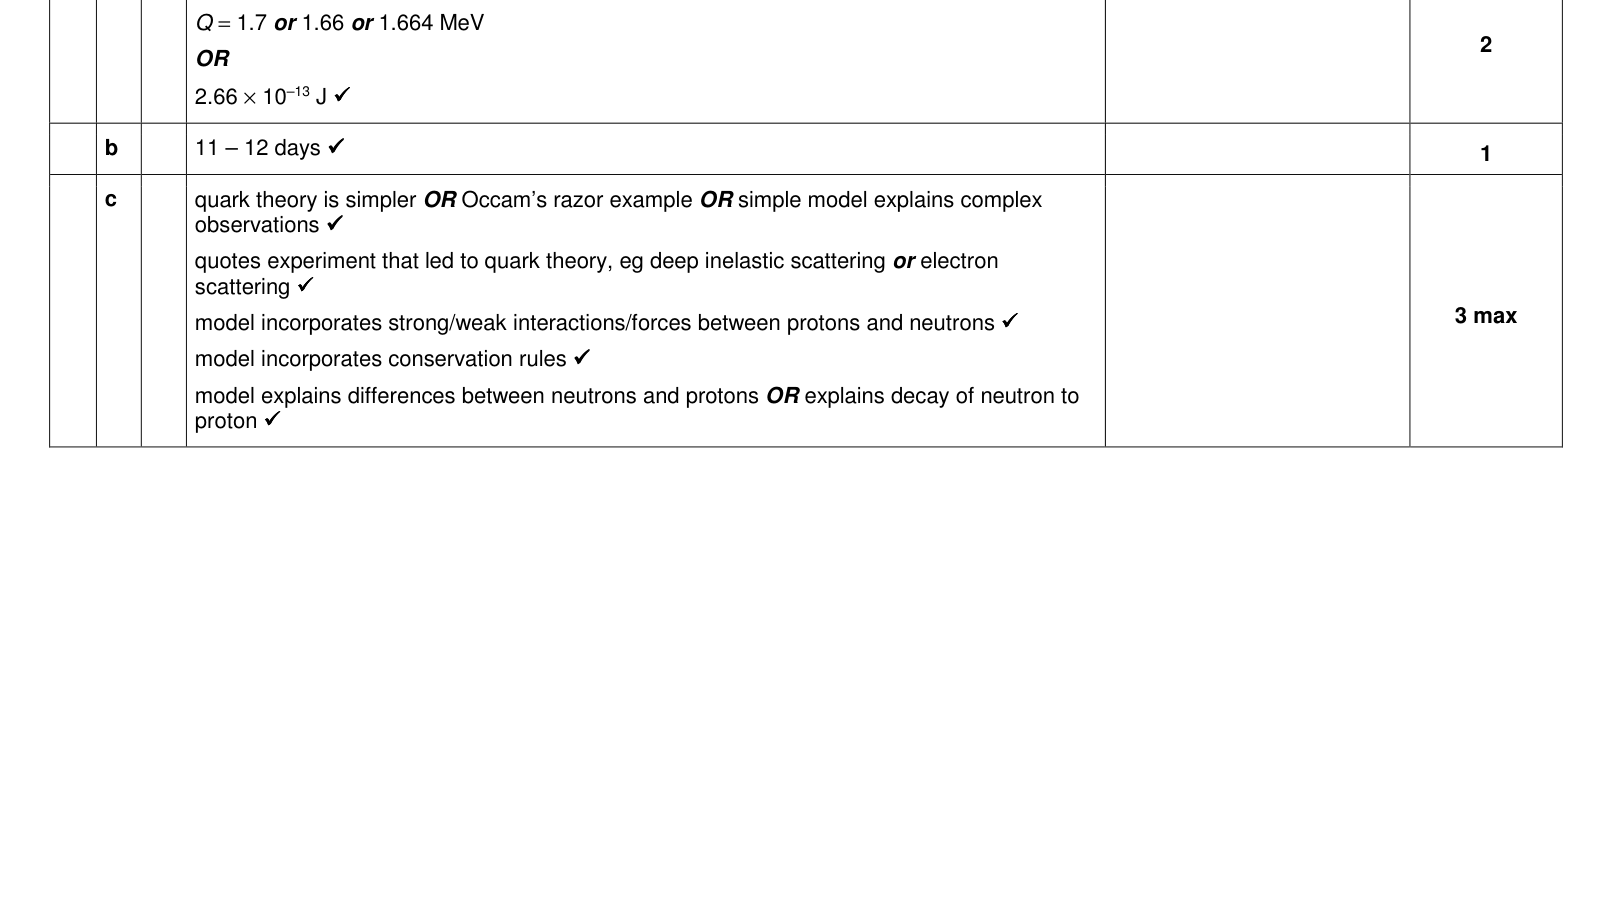
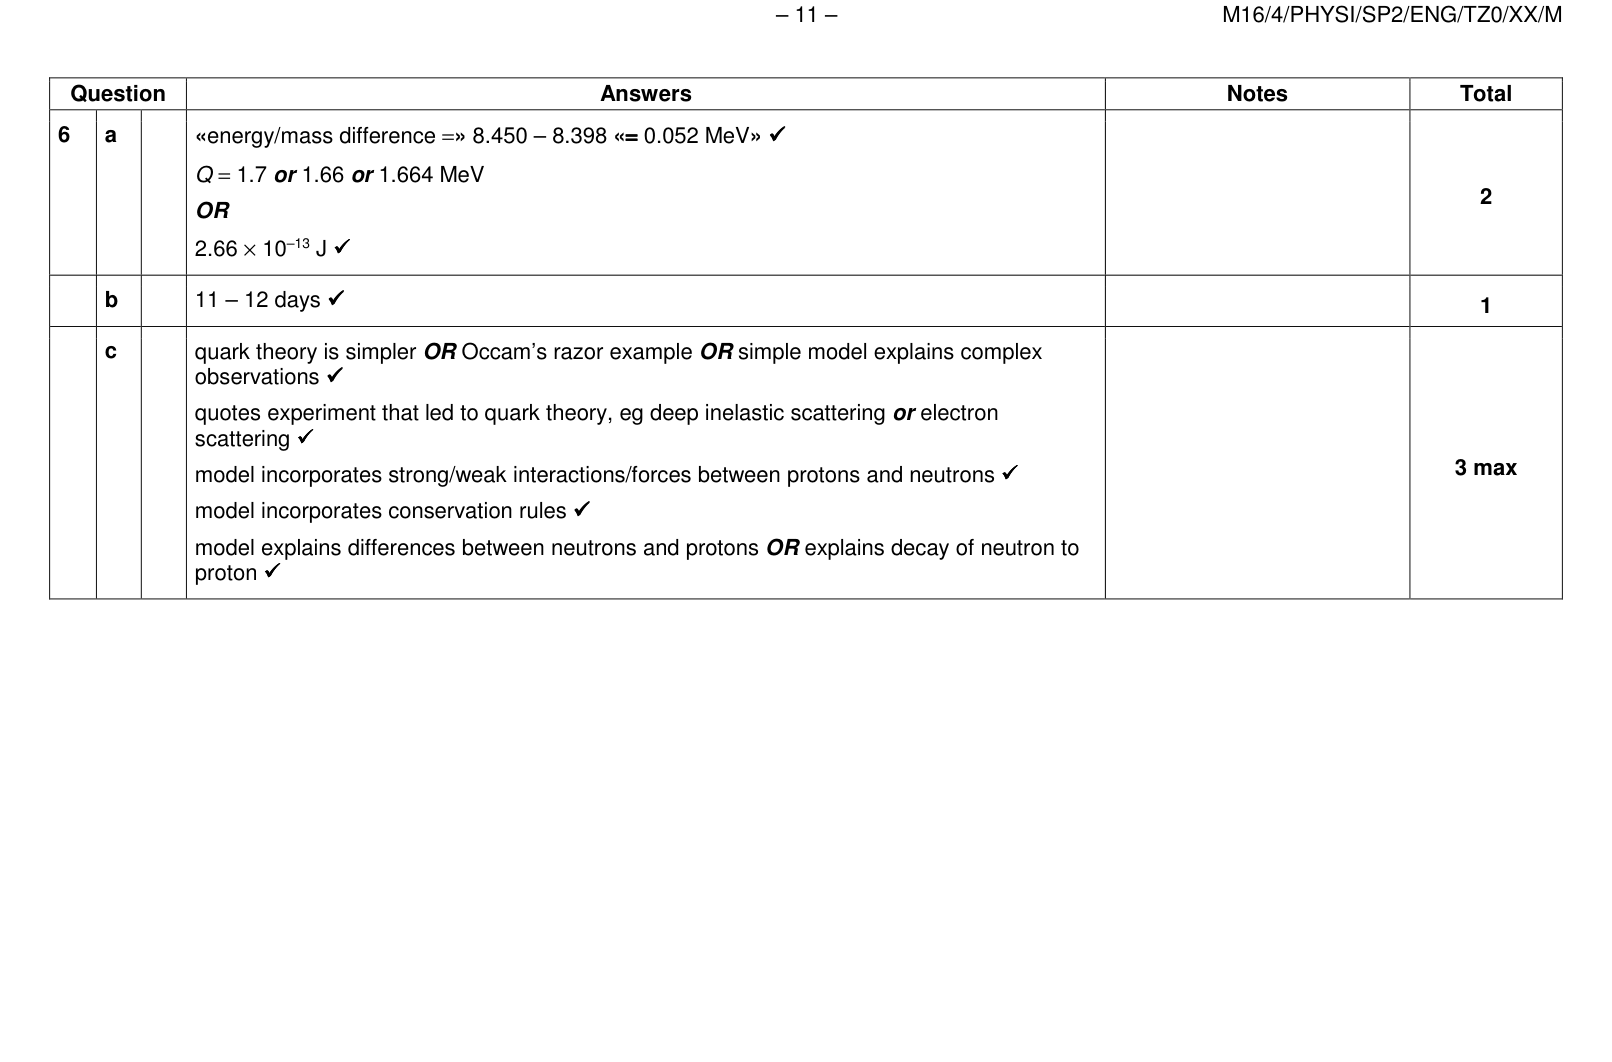
Fix Paper 2 markscheme top clipping for May 2016 and regenerate affected slices

diff --git a/scripts/rebuild_physics_markschemes.py b/scripts/rebuild_physics_markschemes.py
@@ -221,8 +221,12 @@ def crop_ms(doc: fitz.Document, starts: List[StartPos], qnum: int, out_base: Pat
         top = 46.0
         bottom = h - 18.0
         if pno == cur.page:
-            # Keep a small downward offset, but avoid trimming first-answer rows.
-            top = max(46.0, cur.y + 2.0)
+            # Keep context above detected anchors so first rows are not clipped.
+            # If anchor is already near top, start from the standard page margin.
+            if cur.y <= 160.0:
+                top = 46.0
+            else:
+                top = max(46.0, cur.y - 24.0)
         if nxt is not None and pno == nxt.page and pno > cur.page and nxt.y <= 140.0:
             # When the next question clearly starts near page top, do not keep
             # a tiny sliver of this page for the current question.

diff --git a/CONTEXT_WINDOW_EXPORT.md b/CONTEXT_WINDOW_EXPORT.md
@@ -2,7 +2,7 @@
 
 Date: 2026-03-09
 Project: `AA-HL-Question-Bank`
-Latest pushed commit: `f2e699f` (main)
+Latest pushed commit: `b273a1e` (main)
 
 ## Current State
 - Physics bank is active focus.
@@ -12,10 +12,16 @@ Latest pushed commit: `f2e699f` (main)
 - User preference: keep `CONTEXT_WINDOW_EXPORT.md` updated after each completed task for chat handoff continuity.
 
 ## Most Recent Change (last task)
-- Request: side-by-side markscheme panel looked like it started at the bottom.
-- UI fix applied in `src/physics/app.js`:
-  - reset question and markscheme pane scroll position to top on each modal open;
-  - enforce reset again on next animation frame after unhide (prevents retained scroll from prior card).
+- Request: Paper 2 markscheme still visibly clipped at top for some questions (example: May 2016 Paper 2 Q1).
+- Root cause: generated markscheme image crops used an overly aggressive first-page top anchor (`cur.y + 2`), cutting first lines.
+- Fix applied in `scripts/rebuild_physics_markschemes.py`:
+  - first page crop now keeps context above anchor;
+  - if anchor is near top (`<=160`), use normal page top margin;
+  - otherwise use `cur.y - 24` instead of `cur.y + 2`.
+- Rebuilt only affected papers (surgical):
+  - `May 2016 Physics Paper 2 SL`
+  - `May 2016 Physics Paper 2 HL`
+- Result: regenerated 18 affected markscheme mappings/images; top clipping fixed for `phys_m16_p2_ntz_q1_sl_p1`.
 - Commit/push: pending in current task.
 
 ## Key Decisions Already Made
